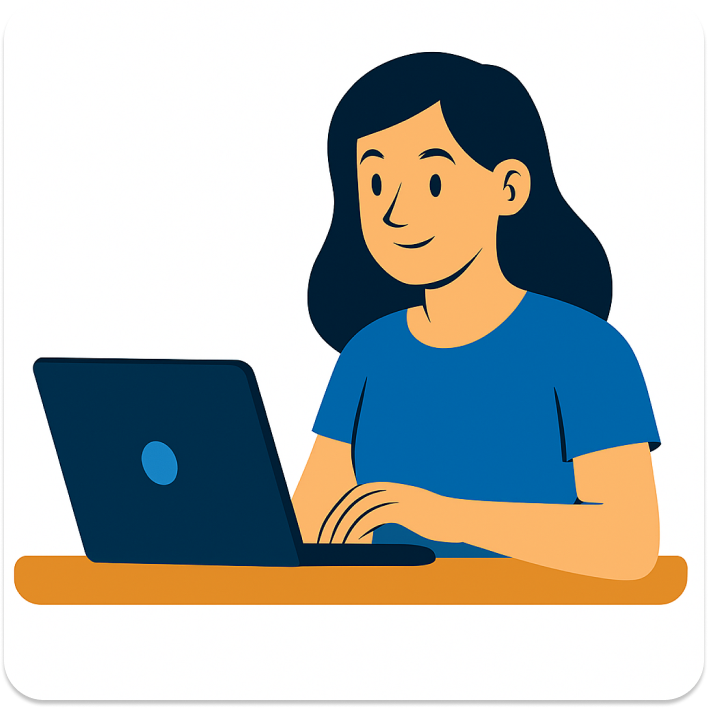
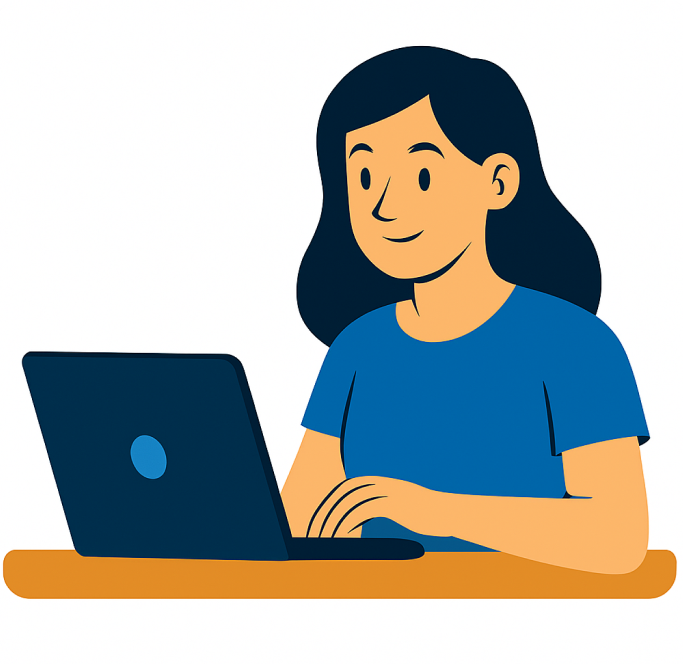
change hero image, fix landing page

diff --git a/src/components/wrappers/TechnicalStackWrapper.tsx b/src/components/wrappers/TechnicalStackWrapper.tsx
@@ -10,7 +10,7 @@ import { iconsMap } from '../../constante/iconsMap';
  * Component that displays the technical stack with icons
  * @returns A component showing tech stack icons
  */
-const TechnicalStack = () => {
+const TechnicalStackWrapper = () => {
   const { stack, removeFromStack } = useInterviewStore();
 
   const icons = useTechIcons(stack);
@@ -42,4 +42,4 @@ const TechnicalStack = () => {
   );
 };
 
-export default TechnicalStack;
+export default TechnicalStackWrapper;

diff --git a/src/app/(dashboard)/interview/page.tsx b/src/app/(dashboard)/interview/page.tsx
@@ -1,6 +1,6 @@
 import ClientFormWrapper from '@/components/interview/setInterview/ClientFormWrapper';
 import SetInterviewCardWrapper from '@/components/interview/setInterview/SetInterviewCardWrapper';
-import TechnicalStack from '@/components/technicalStack/TechnicalStack';
+import TechnicalStack from '@/components/wrappers/TechnicalStackWrapper';
 import ImageTitleWrapper from '@/components/wrappers/ImageTitleWrapper';
 
 const Page = () => {

diff --git a/src/components/interview/liveInterview/InterviewControl.tsx b/src/components/interview/liveInterview/InterviewControl.tsx
@@ -1,7 +1,7 @@
 import { useRouter } from 'next/navigation';
 import React from 'react';
 import Button from '@/components/buttons/Button';
-import TechnicalStack from '@/components/technicalStack/TechnicalStack';
+import TechnicalStack from '@/components/wrappers/TechnicalStackWrapper';
 import { iconsMap } from '@/constante/iconsMap';
 import { CallStatus } from '@/hooks/manage/useManageAgent';
 

diff --git a/src/components/landing/AdvertisingSection.tsx b/src/components/landing/AdvertisingSection.tsx
@@ -19,7 +19,7 @@ const AdvertisingSection = () => {
   ];
 
   return (
-    <div className="flex flex-col gap-5 sm:gap-12 items-center justify-center">
+    <div className="flex flex-col gap-5 mb-5 sm:mb-12 sm:gap-12 items-center justify-center">
       <div className="flex flex-col gap-3 ml-10 sm:ml-20">
         {features.map((feature, index) => (
           <div
